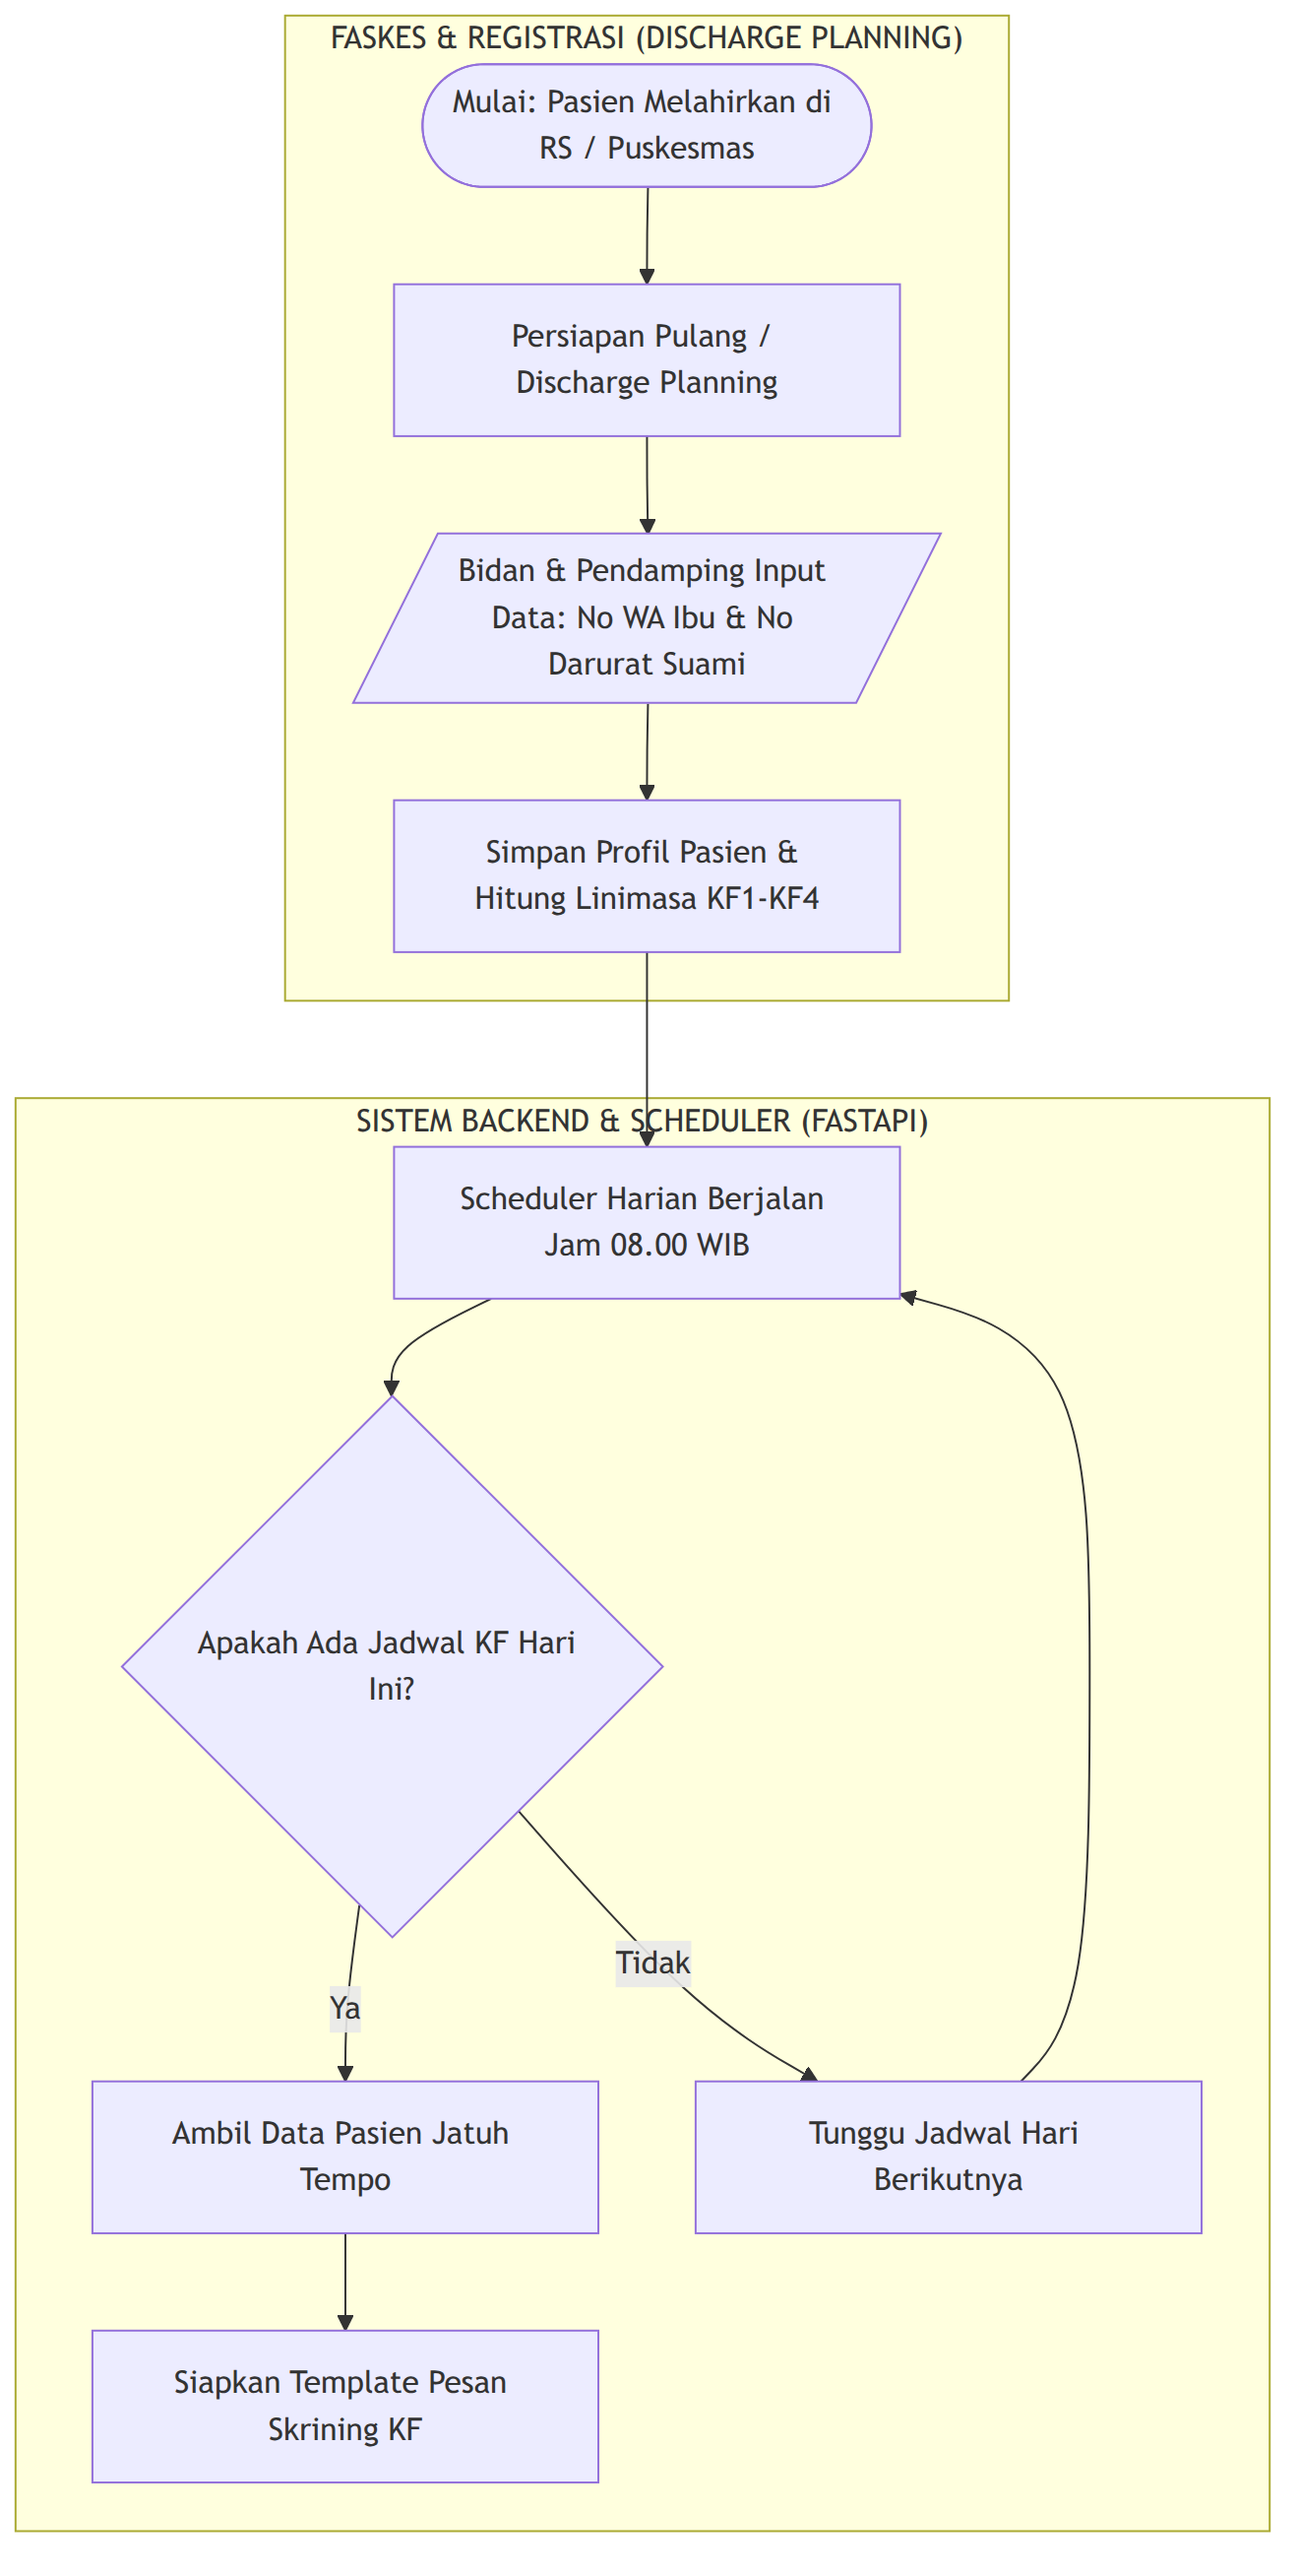
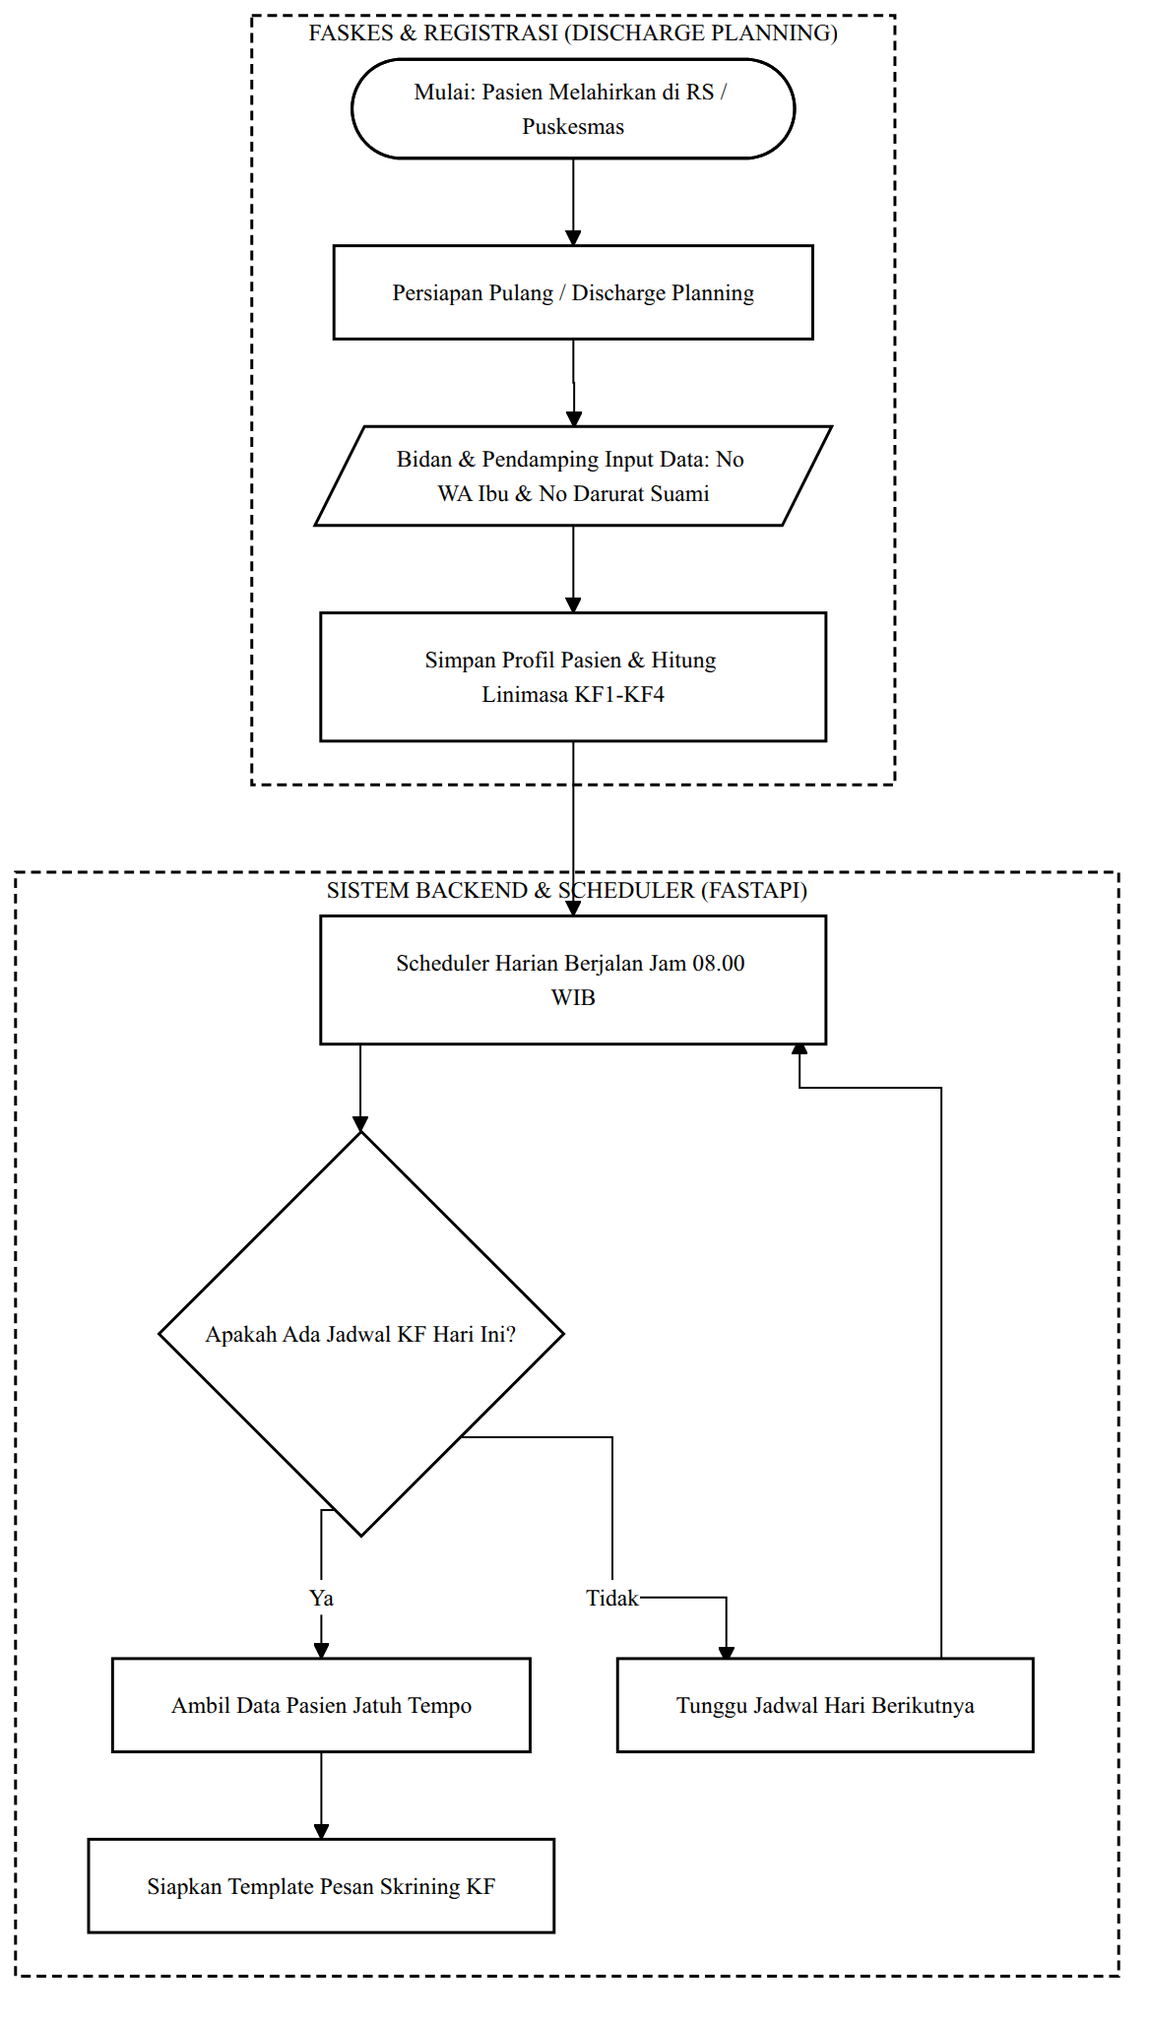
feat(docs): apply Draw.io aesthetic to flowchart renderer and re-render PNG assets

diff --git a/tools/report_docs/render_charts.py b/tools/report_docs/render_charts.py
@@ -1,10 +1,71 @@
+import json
 import os
 import subprocess
 import tempfile
 from pathlib import Path
 
+DRAWIO_CONFIG = {
+    "theme": "base",
+    "themeVariables": {
+        "fontFamily": "Times New Roman, Times, serif",
+        "fontSize": "12px",
+        "primaryColor": "#ffffff",
+        "primaryBorderColor": "#000000",
+        "primaryTextColor": "#000000",
+        "lineColor": "#000000",
+        "textColor": "#000000",
+        "edgeLabelBackground": "#ffffff",
+        "clusterBkg": "#ffffff",
+        "clusterBorder": "#000000"
+    },
+    "flowchart": {
+        "curve": "stepAfter",
+        "nodeSpacing": 45,
+        "rankSpacing": 45,
+        "htmlLabels": True
+    }
+}
+
+DRAWIO_CSS = """
+.node rect, .node polygon, .node path {
+    fill: #ffffff !important;
+    stroke: #000000 !important;
+    stroke-width: 1.5px !important;
+    rx: 0px !important;
+    ry: 0px !important;
+}
+.node .label, .node text {
+    font-family: 'Times New Roman', Times, serif !important;
+    font-size: 12px !important;
+    fill: #000000 !important;
+    color: #000000 !important;
+}
+.cluster rect {
+    fill: #ffffff !important;
+    stroke: #000000 !important;
+    stroke-width: 1.5px !important;
+    stroke-dasharray: 5 3 !important;
+    rx: 0px !important;
+    ry: 0px !important;
+}
+.cluster text, .cluster .label {
+    font-family: 'Times New Roman', Times, serif !important;
+    font-size: 13px !important;
+    font-weight: bold !important;
+    fill: #000000 !important;
+}
+.edgePath path {
+    stroke: #000000 !important;
+    stroke-width: 1.5px !important;
+}
+.marker, marker path {
+    fill: #000000 !important;
+    stroke: #000000 !important;
+}
+"""
+
 CHARTS = {
-    "flowchart_1_onboarding": """%%{init: {"flowchart": {"curve": "ortho", "htmlLabels": true}} }%%
+    "flowchart_1_onboarding": """%%{init: {"flowchart": {"curve": "stepAfter", "htmlLabels": true}} }%%
 flowchart TD
     subgraph FASKES ["FASKES & REGISTRASI (DISCHARGE PLANNING)"]
         A([Mulai: Pasien Melahirkan di RS / Puskesmas])
@@ -31,7 +92,7 @@ flowchart TD
     F -- "Ya" --> G
     G --> H
 """,
-    "flowchart_2_triage": """%%{init: {"flowchart": {"curve": "ortho", "htmlLabels": true}} }%%
+    "flowchart_2_triage": """%%{init: {"flowchart": {"curve": "stepAfter", "htmlLabels": true}} }%%
 flowchart TD
     subgraph WA ["LAYANAN WHATSAPP (BOT & IBU NIFAS)"]
         H[Template Pesan Skrining Siap]
@@ -66,7 +127,7 @@ flowchart TD
     S --> T
     T --> U
 """,
-    "flowchart_3_intervention": """%%{init: {"flowchart": {"curve": "ortho", "htmlLabels": true}} }%%
+    "flowchart_3_intervention": """%%{init: {"flowchart": {"curve": "stepAfter", "htmlLabels": true}} }%%
 flowchart TD
     subgraph INTERVENSI ["TINDAKAN KLINIS NAKES"]
         U[Alert Triase Masuk Dashboard PWA]
@@ -101,27 +162,36 @@ def render_all_charts(output_dir: Path):
     output_dir.mkdir(parents=True, exist_ok=True)
     results = {}
     with tempfile.TemporaryDirectory() as tmpdir:
+        tmp_path = Path(tmpdir)
+        cfg_file = tmp_path / "mermaid_config.json"
+        css_file = tmp_path / "mermaid_style.css"
+        
+        cfg_file.write_text(json.dumps(DRAWIO_CONFIG), encoding="utf-8")
+        css_file.write_text(DRAWIO_CSS, encoding="utf-8")
+
         for name, code in CHARTS.items():
-            mmd_path = Path(tmpdir) / f"{name}.mmd"
+            mmd_path = tmp_path / f"{name}.mmd"
             png_path = output_dir / f"{name}.png"
             mmd_path.write_text(code, encoding="utf-8")
-            
+
             cmd = [
                 "npx", "@mermaid-js/mermaid-cli",
                 "-i", str(mmd_path),
                 "-o", str(png_path),
+                "-c", str(cfg_file),
+                "-C", str(css_file),
                 "-b", "white",
                 "-s", "2"
             ]
-            print(f"Rendering {name} -> {png_path}...")
+            print(f"Rendering {name} in Draw.io style -> {png_path}...")
             res = subprocess.run(cmd, capture_output=True, text=True)
             if res.returncode != 0:
                 raise RuntimeError(f"Failed to render {name}: {res.stderr}")
-            
+
             size_kb = png_path.stat().st_size / 1024
             print(f"  Done: {png_path.name} ({size_kb:.1f} KB)")
             results[name] = png_path
-            
+
     return results
 
 if __name__ == "__main__":
